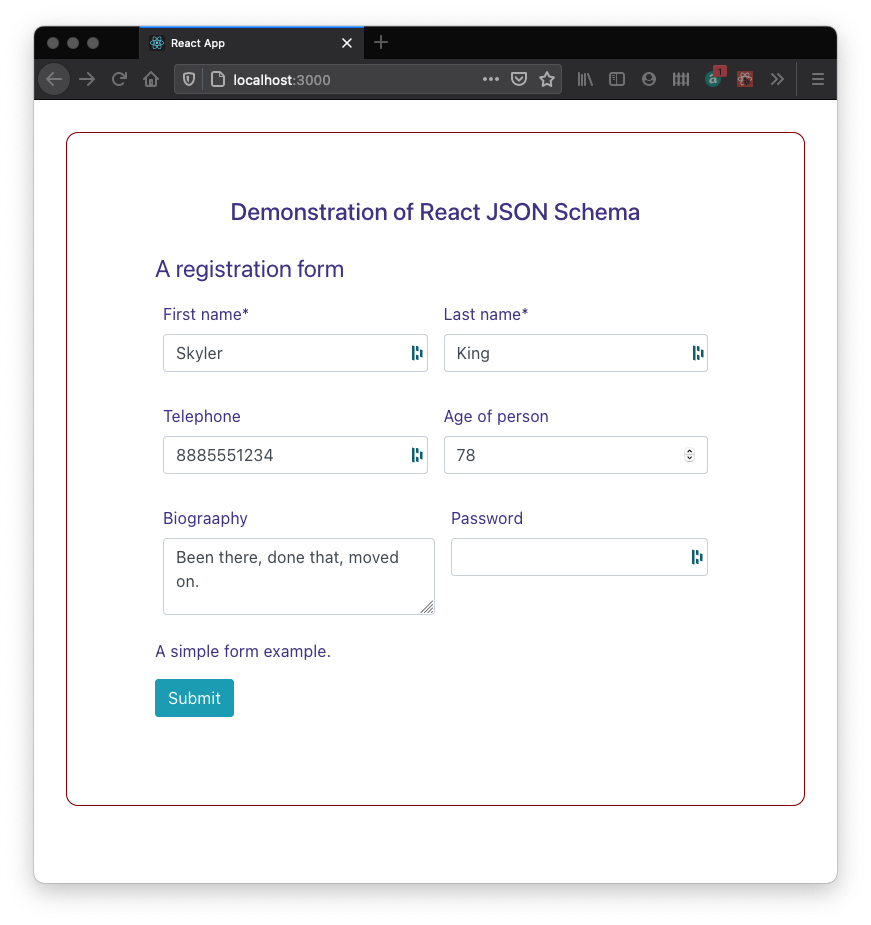
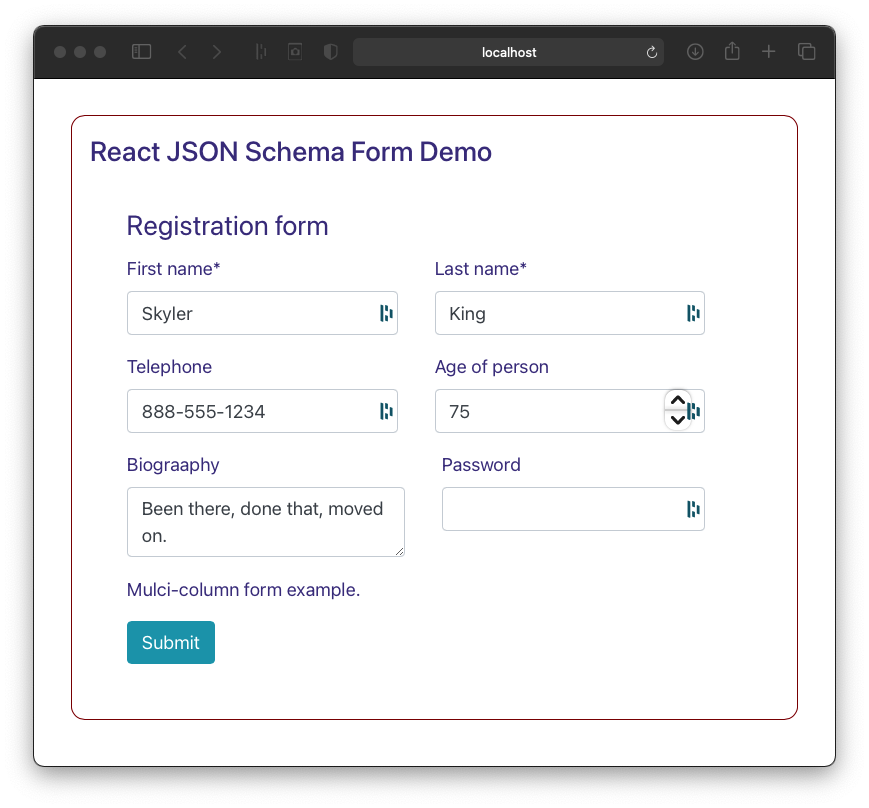
Form rows are multi-column, according to parent width.

diff --git a/src/components/TwoColObjectFieldTemplate.test.jsx b/src/components/TwoColObjectFieldTemplate.test.jsx
@@ -1,11 +1,11 @@
 import React from 'react';
 import { configure, shallow } from 'enzyme';
 import Adapter from 'enzyme-adapter-react-16';
-import TwoColObjectFieldTemplate from './TwoColObjectFieldTemplate';
+import MultiColumnObjectFieldTemplate from './TwoColObjectFieldTemplate';
 
 configure({ adapter: new Adapter() });
 
-describe('TwoColObjectFieldTemplate', () => {
+describe('MultiColumnObjectFieldTemplate', () => {
     it('should match its snapshot', () => {
         const titleField = jest.fn();
         const properties = [
@@ -14,7 +14,7 @@ describe('TwoColObjectFieldTemplate', () => {
             { content: { ket: 'age' } },
         ];
         const wrapper = shallow(
-            <TwoColObjectFieldTemplate
+            <MultiColumnObjectFieldTemplate
                 TitleField={titleField}
                 properties={properties}
                 title='title'

diff --git a/src/components/LocationsPanel.jsx b/src/components/LocationsPanel.jsx
@@ -10,7 +10,7 @@ toastr.options.progressBar = true;
 
 const StyledWrapper = styled.section`
     margin: 2rem;
-    padding: 4rem;
+    padding: 1rem;
     border: solid 1px darkred;
     color: darkslateblue;
     border-radius: 12px;
@@ -18,11 +18,10 @@ const StyledWrapper = styled.section`
 
 const StyledTitle = styled.h1`
     font-size: 1.5rem;
-    text-align: center;
 `;
 
 const StyledDetailArea = styled.div`
-    margin: 1.5rem;
+    margin: 2.0rem;
 `;
 
 export default function LocationsPanel() {
@@ -40,7 +39,7 @@ export default function LocationsPanel() {
 
     return (
         <StyledWrapper>
-            <StyledTitle>Demonstration of React JSON Schema</StyledTitle>
+            <StyledTitle>React JSON Schema Form Demo</StyledTitle>
             <StyledDetailArea>
                 <Form
                     dataTestId="testid"

diff --git a/src/components/TwoColObjectFieldTemplate.jsx b/src/components/TwoColObjectFieldTemplate.jsx
@@ -15,8 +15,7 @@ const StyledRow = styled.div`
 `;
 
 const StyledCol = styled.div`
-    min-width: 44%;
-    margin: 0.5rem;
+    margin: 0 2rem 0 0;
     flex-grow: 1;
 `;
 
@@ -25,9 +24,9 @@ const StyledCol = styled.div`
  * It arranges all fields in a single row using flex-wrap and min-width to force the layout
  * to rows of two fields. For form widths approaching min-width each row contains one field.
  *
- * Add this custom object template to a `<form objectFieldTemplate=TwoColObjectFieldTemplate `,
+ * Add this custom object template to a `<form objectFieldTemplate=MultiColumnObjectFieldTemplate `,
  * or to the RJSF UI schema,
- * ` "ui:TwoColObjectFieldTemplate": TwoColObjectFieldTemplate, `
+ * ` "ui:MultiColumnObjectFieldTemplate": MultiColumnObjectFieldTemplate, `
  *
  * @param TitleField
  * @param properties array

diff --git a/src/schemas/jsonSchema.js b/src/schemas/jsonSchema.js
@@ -1,6 +1,6 @@
 const jsonSchema = {
-    title: 'A registration form',
-    description: 'A simple form example.',
+    title: 'Registration form',
+    description: 'Mulci-column form example.',
     type: 'object',
     required: ['firstName', 'lastName'],
     properties: {

diff --git a/README.md b/README.md
@@ -6,7 +6,7 @@ document, a JSON schema describing the document, and a JSON
 UI schema that says how to render the form items of the document.
 
 It uses a custom object field template in its Ui schema to force
-fields into two columns or one column for narrow views.
+fields into multiple columns according to parent weidth.
 
 ## Install
 
